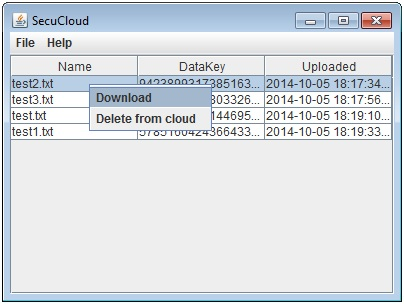
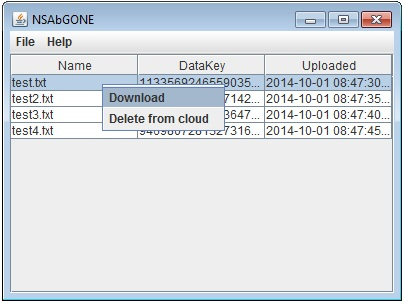
Added some pictures. Edited some content.

Changed region(s): [[0.0, 0.0, 1.0, 0.4752], [0.0297, 0.9802, 0.9802, 1.0]]

diff --git a/doc/LaTeX/IS_Projekt.tex b/doc/LaTeX/IS_Projekt.tex
@@ -185,7 +185,7 @@ Zu den Grundfunktionalitäten des geforderten Prototyps gehören der Cloud-Zugri
 Die Verwendung soll durch eine grafische Oberfläche vereinfacht werden.
 
 \subsubsection{Problemabgrenzung}
-Eine Gegenüberstellung weiterer kommerzieller Produkte von Cloud-Anbietern im Bezug auf Implementierung und Performance wird in dieser Arbeit nicht behandelt. Ebenso ist eine Optimierung vorhandener APIs bzw. Schnittstellen und Kryptosystemen nicht Gegenstand dieser Arbeit. Die Hardware des Anwenders wird als sicher betrachtet, weswegen es keines sicheren Schlüsselmanagements bedarf.
+Eine Gegenüberstellung weiterer kommerzieller Produkte von Cloud-Anbietern im Bezug auf Implementierung und Performance wird in dieser Arbeit nicht behandelt. Ebenso ist eine Optimierung vorhandener APIs bzw. Schnittstellen und Kryptosystemen nicht Gegenstand dieser Arbeit. Die Hardware des Anwenders wird als sicher betrachtet, weswegen es keines sicheren Schlüsselmanagements bedarf. Dateien, welche manuell bzw. ohne die Anwendung in die Cloud geladen werden, werden nicht berücksichtigt.
 
 \subsection{Ziel der Arbeit}
 Ziel der Arbeit ist es herauszuarbeiten, ob und wie Cloudspeicher zur sicheren Ablage von Daten im Sinne des deutschen Datenschutzverständnisses genutzt werden können. Hierfür soll einee entsprechende Applikation entwickeln werden. Außerdem ist zu klären, ob der Einsatz einer Cloudplattform sinnvoll und möglich ist, auf Hintergrund der jüngsten Enthüllungen Edward Snowdens und anderer. Diese haben gezeigt, dass eine solche Infrastruktur auf US-Amerikanischem Boden im besonderen aber auch im Ausland im Allgemeinen als nicht vertrauenswürdig gelten muss und dort abgelegte Unternehmenswichtige Daten gefährdet sind. Ist es möglich die Vorteile solcher Plattformen dennoch zu nutzen? Wie gefährdet sind die Daten dann noch?
@@ -205,7 +205,7 @@ Die Dokumentation des Programmcodes sowie die UML Diagramme sind auf Englisch ge
 % ----------------------------------------------------------------------------------------------------------
 \section{Grundlagen}\label{GrundlagenV}
 \subsection{Cloud Computing}
-TODO: Einleitung
+Da der Begriff Cloud Computing nicht eindeutig definiert und in seinem strukturellen Aufbau zu unterscheiden ist, wird nachfolgend Cloud Computing beschrieben und in diesem Zusammenhang näher auf die Merkmale von Infrastructure as a Service (IaaS) eingegangen.
 \subsubsection{Definition}
 Definition von Cloud Computing nach dem National Institute of Standards and Technology (NIST) und der European Network and Information Security Agency (ENISA) \cite{34}:
 
@@ -222,8 +222,17 @@ Cloud Computing bietet Unternehmen die Möglichkeit hohe Investitionskosten für
 
 Gängige Ansätze fordern eine kostenintensive und zeitlich aufwändige Analyse bestehender Systeme und möglicher Erweiterungen. Schwankungen des Bedarfs erschweren eine exakte Kalkulation notwendiger Betriebsmittel, sodass eine Fehl- oder wohlwollend angesetzte Kalkulation zu ungenutzten Kapazitäten und einer unnötigen Belastung der Umwelt führt. Durch Cloud Computing können innerhalb kürzester Zeit Ressourcen bereitsgestellt oder entzogen werden.
 
-ABBILDUNG X\\
-Abbildung X stellt schemenhaft den Speicherbedarf eines Unternehmens dar. Eine Über-\\kapazität tritt dann ein, wenn der zum Zeitpunkt x verwendete Speicher unter dem tatsächlich verfügbaren Speicher liegt - eine Unterkapazität, wenn mehr Speicher benötigt wird, als vorhanden ist. Eine Kalkulation benötigter Ressourcen ist zu Beginn schwierig und eine Überkapazität sogar, um einen ständigen Integrationsaufwand zu vermeiden, gewünscht. Der Anstieg an Daten führt unweigerlich zur Erreichung der Kapazitätsgrenzen. Im Extremfall wird die Migration besserer Systeme notwendig, was teilweise Geschäftsprozesse beeinflussen kann. In jedem Fall führt jedoch eine Beschaffung und Integration neuer Hardware zu finanziellem und administrativem Aufwand. Sinkt der Speicherbedarf wieder, bspw. durch Löschen redundanter Daten, wäre eine solche irreversible Invesition, kurzfristig betrachtet, als unnötig anzusehen. Bei Cloud Computing wird diese Herausforderung auf den Anbieter übertragen - der benötigte Speicher kann bedarfsgerecht gesteuert und abgerechnet werden.
+\vspace{1em}
+$\;$\\
+\begin{minipage}{\linewidth}
+	\centering
+	\includegraphics[width=1.0\linewidth]{Speicher.jpg}
+	 \captionof{figure}{\small Speicherbedarf}
+ 	\label{SpeicherV}
+\end{minipage}
+\vspace{1em}
+
+Abbildung \ref{SpeicherV} stellt schemenhaft den Speicherbedarf eines Unternehmens dar. Eine Über-\\kapazität tritt dann ein, wenn der zum Zeitpunkt x verwendete Speicher unter dem tatsächlich verfügbaren Speicher liegt - eine Unterkapazität, wenn mehr Speicher benötigt wird, als vorhanden ist. Eine Kalkulation benötigter Ressourcen ist zu Beginn schwierig und eine Überkapazität sogar, um einen ständigen Integrationsaufwand zu vermeiden, gewünscht. Der Anstieg an Daten führt unweigerlich zur Erreichung der Kapazitätsgrenzen. Im Extremfall wird die Migration besserer Systeme notwendig, was teilweise Geschäftsprozesse beeinflussen kann. In jedem Fall führt jedoch eine Beschaffung und Integration neuer Hardware zu finanziellem und administrativem Aufwand. Sinkt der Speicherbedarf wieder, bspw. durch Löschen redundanter Daten, wäre eine solche irreversible Invesition, kurzfristig betrachtet, als unnötig anzusehen. Bei Cloud Computing wird diese Herausforderung auf den Anbieter übertragen - der benötigte Speicher kann bedarfsgerecht gesteuert und abgerechnet werden.
 
 \textbf{Materielle Wertverluste}
 
@@ -409,8 +418,8 @@ Google Cloud Storage ermöglicht es Daten auf der Google-Infrastruktur mit hoher
  Jeder Bucket ist genau einem Project zugeordnet. Ein Project besteht aus einer Gruppe von Benutzern, mehreren APIs, Authentifizierung, Überwachungsoptionen und wird mit einem sog. ''Billing Account'' einzeln abgerechnet. Ein Project kann eine beliebige Anzahl an Buckets enthalten.
 \end{compactitem}
 
-\subsection{Schnittstelle Google Cloud Storage: gsutil}\label{GsutilV}
-\textbf{gsutil} \cite{32} ist eine Python-Anwendung, welche einen konsolenbasierten Zugriff der gängigen Betriebssysteme Linux/Unix, Mac OS oder Windows auf Google Cloud Storage ermöglicht. Voraussetzung ist ein installiertes Python in der Version 2.6.x oder 2.7.x,  Python 3.x ist dazu derzeit inkompatibel. Dabei nutzt gsutil die Notation der Standardbefehle von Linux, welche direkt in einer Konsole oder durch eine Anwendung aufgerufen werden können. Damit gsutil als Schnittstelle zum eigenen Google Cloud Storage verwendet werden kann, muss dieses initial durch einen Authentifizierungscode mit dem zugehörigen Account verknüpft werden. TODO :BOTO Nachfolgend sind die für das Projekt relevanten Befehle aufgelistet (ein Ausführen von gsutil mit einem Python-Interpreter und eine korrekte Authentifizierung ist vorausgesetzt):
+\subsection{Schnittstelle Google Cloud Storage: gsutil unt boto}\label{GsutilV}
+\textbf{gsutil} \cite{32} ist eine Python-Anwendung, welche einen konsolenbasierten Zugriff der gängigen Betriebssysteme Linux/Unix, Mac OS oder Windows auf Google Cloud Storage ermöglicht. Voraussetzung ist ein installiertes Python in der Version 2.6.x oder 2.7.x,  Python 3.x ist dazu derzeit inkompatibel. Dabei nutzt gsutil die Notation der Standardbefehle von Linux, welche direkt in einer Konsole oder durch eine Anwendung aufgerufen werden können. Damit gsutil als Schnittstelle zum eigenen Google Cloud Storage verwendet werden kann, muss dieses initial durch einen Authentifizierungscode mit dem zugehörigen Account verknüpft werden. Nachfolgend sind die für das Projekt relevanten Befehle aufgelistet (ein Ausführen von gsutil mit einem Python-Interpreter und eine korrekte Authentifizierung ist vorausgesetzt):
 
 \begin{compactitem}
 	\item Auflisten: \textbf{ls}\\
@@ -424,7 +433,21 @@ Google Cloud Storage ermöglicht es Daten auf der Google-Infrastruktur mit hoher
 
 Desweiteren verarbeitet gsutil Befehle für das Erstellen und Löschen von Buckets, Verschieben, Umbenennen und Editieren von Objekten sowie zur Rechteverwaltung.
 
-Neben der Schnittstelle gsutil verfügt Google Cloud Storage über eine \textbf{XML API} für HTTP-Anfragen von Web-Services, eine \textbf{JSON API} in Version v1 und weitere \textbf{Cloud Storage Tools}.TODO warum gsutil, WEBSOCKET ETC\\
+\textbf{boto} ist eine OpenSource Python-Bibliothek, welche als Schnittstelle zu Google Cloud Storage dient. Das zugehörige GCS-0auth2-boto-Plugin ist ein Plugin zur Authentifizierung mit OAuth 2.0 Anmeldeinformationen. Neben Google verwendet auch Amazon Web Services dieses als Schnittstelle.
+
+\vspace{1em}
+$\;$\\
+\begin{minipage}{\linewidth}
+	\centering
+	\includegraphics[width=0.7\linewidth]{OAuth.png}
+	\captionof{figure}{\small OAuth 2.0}
+	\label{OAuthV}
+\end{minipage}
+\vspace{1em}
+
+In Abbildung \ref{OAuthV} wird das Authentifizierungsverfahren OAuth 2.0 an den Google-Servern dargestellt. Ein Anwender meldet sich im System an, erhält daraufhin einen Authentifizierungscode, bestätigt diesen und kann anschließend mit jeglicher, auf die Google APIs zugreifender, Anwendung Google Cloud Storage verwenden. Die Informationen werden in einer *.boto Datei gespeichert und bleiben somit automatisierend für weitere Zugriffe erhalten.
+
+Neben gsutil verfügt Google Cloud Storage über eine \textbf{XML API} für HTTP-Anfragen von Web-Services, eine \textbf{JSON API} in Version v1 und weitere \textbf{Cloud Storage Tools}. TODO warum gsutil, WEBSOCKET ETC\\
 
 \subsection{Eclipse IDE for Java Developers}
 Eclipse ist eine OpenSource Entwicklungsumgebung zur gestützten Entwicklung von Software. Die IDE for Java Developers beinhaltet zusätzlich Pakete und Tools, die eine Programmierung in der Programmierhochsprache Java erleichtert. Interessant hierbei ist, das Eclipse selbst für Java und auch in Java Entwickelt wurde. Es ist also genau so vielseitig nutzbar wie die Anwendungen die damit entwickelt werden. Durch Plugins kann die Funktionalität von Enclipse erweitert werden, etwa um UML Diagramme aus Code oder umgekehrt aus UML Diagrammen Code zu erzeugen, oder um die Entwicklung in anderen Sprachen zu ermöglichen. Im Zuge dieses Projekts wurde Eclipse in der Version \textbf{Kepler Service Release 2}, \textbf{Build id: 20140224-0627}, verwendet.
@@ -505,14 +528,29 @@ Die UML Diagramme befinden sich im digitalen Anhang, Ordner UML. In der Datei Cl
 \pagebreak
 
 \subsubsection{Anwendungsfälle}
-\vspace{1em}
+\vspace{0,5em}
 $\;$\\
 \begin{minipage}{\linewidth}
 	\centering
 	\includegraphics[width=0.8\linewidth]{UseCase.jpg}
 	 \captionof{figure}{\small Anwendungsfalldiagramm}
 \end{minipage}
-\vspace{1em}
+\vspace{0,em}
+
+\textbf{Begriffslexikon Anwendungsfälle:}
+\begin{compactitem}
+\item Anwender:\\
+Die Rechte und Möglichkeiten des Anwenders, sofern diese vorher beim Anbieter vergeben wurden, begrenzen sich auf das Ablegen lokaler und das Herunterladen bzw. Löschen von in der Cloud gespeicherten Dateien.
+\item Authentifizierung:\\
+Der Login erfordert den Benutzernamen sowie das zugehörige Passwort.
+\item Datei:\\
+Die hochzuladende Datei kann in jedem beliebigen Dateiformat vorliegen.
+\item Dateiübersicht:\\
+Die Dateiübersicht gibt tabellarisch die in der Cloud abgelegten Dateien wieder. Dies beinhaltet den originalen Dateinamen, den kryptischen Dateinamen  sowie den Zeitpunkt des Ablegens.
+\item GUI:\\
+GUI (engl. Graphical User Interface) ist eine grafische Benutzeroberfläche, die dem Anwender die Interaktion mit dem System vereinfacht.
+\end{compactitem}
+\pagebreak
 
 \textbf{AF-001 Nutzer erstellen:}
 \begin{table}[!h]
@@ -541,6 +579,7 @@ $\;$\\
 	\caption{AF-001 Nutzer erstellen}
 	\label{tab:AF-001 Nutzer erstellen}
 \end{table}
+\pagebreak
 
 \textbf{AF-002 Authentifizierung:}
 \begin{table}[!h]
@@ -590,9 +629,9 @@ $\;$\\
 		\hline
 		Nachbedingung im Sonderfall & Datei kann nicht abgelegt werden\\
 		\hline
-		Normalablauf & 1. Anwender wählt das Menü ''File'' aus \\ & 2. Anwender wählt im Untermenü ''Select'' \\ & 3. Anwender bewegt sich durch das eigene  Datei- \\ & system zum Speicherpfad der hochzuladenden Datei \\ & 4. Anwender initialisiert den Dateiupload durch \\ &  Auswählen der Datei und Bestätigung mit ''Öffnen'' \\  & 5. Datei wird verschlüsselt \\ & 6. Datei wird hochgeladen \\
+		Normalablauf & 1. Anwender wählt das Menü ''File'' aus \\ & 2. Anwender wählt im Untermenü ''Select'' \\ & 3. Anwender bewegt sich durch das eigene  Datei- \\ & system zum Speicherpfad der hochzuladenden Datei \\ & 4. Anwender initialisiert den Dateiupload durch \\ &  Auswählen der Datei und Bestätigung mit ''Open'' \\  & 5. Datei wird verschlüsselt \\ & 6. Datei wird hochgeladen \\
 		\hline
-		Sonderfälle & 3a. Dateisystem wird nicht unterstützt \\& 5a. Datei wird nicht verschlüsselt \\ & 6a. Datei kann nicht hochgeladen werden\\
+		Sonderfälle & 3a. Dateisystem wird nicht unterstützt \\& 4a. Keine Datei ausgewählt \\ & 4b. Anwender wählt "Cancel" \\ &  5a. Datei wird nicht verschlüsselt \\ & 6a. Datei kann nicht hochgeladen werden\\
 		\hline
 	\end{tabular}
 	\caption{AF-003 Dateiupload}
@@ -627,6 +666,7 @@ $\;$\\
 	\caption{AF-004 Dateidownload}
 	\label{tab:AF-004 Dateidownload}
 \end{table}
+\pagebreak
 
 \textbf{AF-005 Datei l\"oschen:}
 \begin{table}[!h]
@@ -647,9 +687,9 @@ $\;$\\
 		\hline
 		Nachbedingung im Sonderfall & Datei kann nicht gelöscht werden \\
 		\hline
-		Normalablauf & 1. Anwender wählt in der Dateiübersicht mit linkem \\&Mausklick den Eintrag der entsprechenden Datei aus \\ & 2. Anwender öffnet das Kontextmenü mit rechtem\\& Mausklick \\ & 3. Anwender wählt im Kontextmenü ''Delete from \\&cloud'' \\  & 4. Datei wird aus der Cloud gelöscht \\ & 5. Dateieintrag in der Übersicht wird entfernt \\& Schlüssel wird entfernt \\
+		Normalablauf & 1. Anwender wählt in der Dateiübersicht mit linkem \\&Mausklick den Eintrag der entsprechenden Datei aus \\ & 2. Anwender öffnet das Kontextmenü mit rechtem\\& Mausklick \\ & 3. Anwender wählt im Kontextmenü ''Delete from \\&cloud'' \\ & 4. Delete Fenster erscheint \\ & 5. Anwender bestätigt mit Ok \\  & 6. Datei wird aus der Cloud gelöscht \\ & 7. Dateieintrag in der Übersicht wird entfernt \\& Schlüssel wird entfernt \\
 		\hline
-		Sonderfälle & 1a. Kein Eintrag vorhanden\\& 1b. Kein Eintrag ausgewählt\\ & 3a. Kontextmenü öffnet sich nicht \\& 4a. Datei kann nicht aus der Cloud gelöscht werden \\ & 5a. Dateieintrag in der Übersicht wird nicht entfernt\\& Schlüssel wird nicht entfernt\\
+		Sonderfälle & 1a. Kein Eintrag vorhanden\\& 1b. Kein Eintrag ausgewählt\\ & 3a. Kontextmenü öffnet sich nicht \\ & 4a. Delete Fenster erscheint nicht \\ & 5a. Anwender wählt No \\ & 6a. Datei kann nicht aus der Cloud gelöscht werden \\ & 7a. Dateieintrag in der Übersicht wird nicht entfernt\\& Schlüssel wird nicht entfernt\\
 		\hline
 	\end{tabular}
 	\caption{AF-005 Datei löschen}
@@ -657,30 +697,16 @@ $\;$\\
 \end{table}
 \pagebreak
 
-\textbf{Begriffslexikon Anwendungsfälle:}
-\begin{compactitem}
-\item Anwender:\\
-Die Rechte und Möglichkeiten des Anwenders, sofern diese vorher beim Anbieter vergeben wurden, begrenzen sich auf das Ablegen lokaler und das Herunterladen bzw. Löschen von in der Cloud gespeicherten Dateien.
-\item Authentifizierung:\\
-Der Login erfordert den Benutzernamen sowie das zugehörige Passwort.
-\item Datei:\\
-Die hochzuladende Datei kann in jedem beliebigen Dateiformat vorliegen.
-\item Dateiübersicht:\\
-Die Dateiübersicht gibt tabellarisch die in der Cloud abgelegten Dateien wieder. Dies beinhaltet den kryptischen Dateinamen, den originalen Dateinamen sowie den Zeitstempel des Ablegens.
-\item GUI:\\
-GUI (engl. Graphical User Interface) ist eine grafische Benutzeroberfläche, die dem Anwender die Interaktion mit dem System vereinfacht.
-\end{compactitem}
-
 \subsection{Kryptosystem}
 Die Verschlüsselung und das Accountmanagement basieren zurzeit ausschließlich auf den Algorithmen AES128 im CTR Modus und SHA256. Eine asymmetrische Verschlüsselung wurde in Betracht gezogen, schied jeodch unter der Annahme, dass der Client auf dem die Applikation läuft, als sichere Umgebung gilt, aus. In einer späteren Weiterentwicklung ist es aber durchaus sinnvoll dies erneut zu evaluieren. Vor allem dann, wenn ein Server das Dateisystem bzw. dessen Synchronität verwalten soll, oder mehrere kaskadierte Verschlüsselungsebenen geschaffen werden sollen, um eine erweiterte Rechteverwaltung zu ermöglichen. Die Beschreibung der Sicherungsverfahren wird nachfolgend in der Reihenfolge, in der sie von einem Benutzer ausgelöst werden, beschrieben.
 \\\\\textbf{Account anlegen}\\
-Wird die Applikation zum ersten Mal gestartet, stellt sie also fest, dass bisher keine Benutzer im System registriert sind, schafft sie im Home-Verzeichnis des Benutzers eine eigene Ordnerstruktur, um die anfallenden Informationen zu verwalten und nach dem schließen vorzuhalten. Nachdem der Benutzer im CreateAccountWindow seine gewünschten Nutzerdaten eingetragen hat, wird automatisch ein zufälliger Wert von 64 Byte berechnet, der sog. ''Salt". Danach wird der Benutzername im Klartext in die Datei HOME/SecuCloud/settings.cfg eingetragen, gefolgt von einem Doppelpunkt (":") als Separator. Anschließend berechnet das Programm einen SHA256 Hashwert über ein Byte array bestehend aus dem Salt und dem Passwort. Dieser Hash sowie der Salt werden hinter dem Doppelpunkt abgelegt. Weitere eventuell angelegte Benutzer werden auf die selbe Weise an die Datei angehängt, die Applikation erkennt anhand des Separators und der Kenntnis über Länge von Hash und Salt, wo die Daten des einen Nutzers enden und die des nächsten beginnen. TODO
+Wird die Applikation zum ersten Mal gestartet, stellt sie also fest, dass bisher keine Benutzer im System registriert sind, schafft sie im Home-Verzeichnis des Benutzers eine eigene Ordnerstruktur, um die anfallenden Informationen zu verwalten und nach dem schließen vorzuhalten. Nachdem der Benutzer im CreateAccountWindow seine gewünschten Nutzerdaten eingetragen hat, wird automatisch ein zufälliger Wert von 64 Byte berechnet, der sog. ''Salt". Danach wird der Benutzername im Klartext in die Datei HOME/NSAbGONE/settings.cfg eingetragen, gefolgt von einem Doppelpunkt (":") als Separator. Anschließend berechnet das Programm einen SHA256 Hashwert über ein Byte array bestehend aus dem Salt und dem Passwort. Dieser Hash sowie der Salt werden hinter dem Doppelpunkt abgelegt. Weitere eventuell angelegte Benutzer werden auf die selbe Weise an die Datei angehängt, die Applikation erkennt anhand des Separators und der Kenntnis über Länge von Hash und Salt, wo die Daten des einen Nutzers enden und die des nächsten beginnen. TODO
 \\\\\textbf{Login}\\
 Um sich in seinen Account einzuloggen, muss ein Benutzer seinen Nutzernamen und sein Passwort in die im LoginWindow vorgegebenen Zellen eintragen. Drückt er auf den OK Button, erstellt die Applikation ein Byte Array aus dem Passwort und dem in settings.cfg hinterlegten Salt. Dies wird gehasht und das Ergebnis mit dem in settings.cfg eingetragenen verglichen. Stimmen die beiden überein, sind die Nutzerdaten valide und die Applikation wechselt in das MainWindow. Der Vorteil bei der Verwendung eines Salt ist in \fullref{KryptV} näher erläutert.
 \\\\\textbf{Dateien ablegen}\\
 Wählt der Benutzer eine Datei über das MainWindow aus, um diese in der Cloud sicher zu speichern, beginnt die Applikation zunächst damit einen zufälligen Schlüssel von 16 Byte Länge (AES Key, 128 Bit) und einen Initialisierungsvektor (Nonce) für den CTR Modus (ebenfalls 16 Byte) zu berechnen und in einer Instanz der Klasse InformationContainer zusammen mit dem Dateinamen und weiteren Informationen, zu speichern. Danach wird die Datei selbst mit den generierten Werten verschlüsselt, der verwendete Initialisierungsvektor angehängt und sie anschließend in der Cloud abgelegt. Für jede Datei wird ein eigener Schlüssel berechnet, da ein Schlüssel immer gefährdeter wird, je öfter er benutzt, bzw. je mehr Daten damit verschlüsselt werden. Außerdem ist es möglich einem anderen Nutzer den Zugriff auf eine einzelene Datei zu gestatten, indem man ihm den Schlüssel aushändigt. 
 \\\\\textbf{Programm schließen}\\
-Wird die CLOSE Schaltfläche des MainWindow betätigt oder das X in der Ecke des Programmfensters, werden alle laufenden Verschlüsselungs- und Uploadprozesse abgearbeitet. Anschließend werden die gespeicherten InformationContainer in Bytefolgen umgewandelt und aneinander gehängt. Dieses Byte Array wird dann mittels des Benutzerpasswortes und einem weiteren zufällig generierten Initialisierungsvektor AES CTR verschlüsselt. Danach wird der Initialisierungsvektor angehängt und die Daten in die Datei HOME/SecuCloud/\textless Benutzername\textgreater/data/state.cfg gespeichert. Sollte das Benutzerpasswort nicht die richtige Länge haben (genau 16 Byte, AES Schlüssellänge) wird es bei 16 Byte abgeschnitten, bzw. auf 16 Byte expandiert. Das bedeutet, es wird so oft hintereinander gehängt, bis 16 Byte erreicht oder überschritten werden. Eventuell überflüssige Zeichen werden anschließend abgeschnitten. Aus diesem Grund lohnt es sich ein ausreichend langes Passwort zu wählen.
+Wird die CLOSE Schaltfläche des MainWindow betätigt oder das X in der Ecke des Programmfensters, werden alle laufenden Verschlüsselungs- und Uploadprozesse abgearbeitet. Anschließend werden die gespeicherten InformationContainer in Bytefolgen umgewandelt und aneinander gehängt. Dieses Byte Array wird dann mittels des Benutzerpasswortes und einem weiteren zufällig generierten Initialisierungsvektor AES CTR verschlüsselt. Danach wird der Initialisierungsvektor angehängt und die Daten in die Datei HOME/NSAbGONE/\textless Benutzername\textgreater/data/state.cfg gespeichert. Sollte das Benutzerpasswort nicht die richtige Länge haben (genau 16 Byte, AES Schlüssellänge) wird es bei 16 Byte abgeschnitten, bzw. auf 16 Byte expandiert. Das bedeutet, es wird so oft hintereinander gehängt, bis 16 Byte erreicht oder überschritten werden. Eventuell überflüssige Zeichen werden anschließend abgeschnitten. Aus diesem Grund lohnt es sich ein ausreichend langes Passwort zu wählen.
 \\\\\textbf{Programmstart mit vorhandener state.cfg}\\
 Wird die Applikation gestartet und ein Benutzer meldet sich mit validen Daten an, wird geprüft, ob bereits eine state.cfg für diesen Benutzer existiert, also ob bereits Dateien abgelegt und ensprechen Informationen zu diesen gespeichert wurden. Ist dies der Fall, expandiert die Applikation das Benutzerpasswort und entschlüsselt die state.cfg. Hier wird auch klar warum die state.cfg verschlüsselt sein muss: Es ist möglich, dass jemand die setttings.cfg derart manipuliert, dass jemand sich mit einem falschen Passwort einloggen kann. Dann ist es dieser Person aber nach wie vor nicht möglich die Dateien des eigentlichen Benutzers zu entschlüsseln, da er das echte Passwort nicht besitzt. Auch ist es zukünftig denkbar die state.cfg selbst in der Cloud abzulegen. Dann wäre es möglich von überall aus das Programm zu verwenden (etwa mitgeführt auf einem USB Stick), ohne die Informationen im Nutzerverzeichnis zu benötigen.
 \\\\\textbf{BSI Standards}\\
@@ -745,7 +771,7 @@ $\;$\\
 	\captionof{figure}{\small Dateiauswahl}
 	\label{Select}
 \end{minipage}
-\\\\In der Dateiauswahl Select wird die lokale Ordnerstruktur des Betriebssystems angezeigt. In dieser kann sich der Benutzer frei bewegen und in das Quellverzeichnis von Dateien wechseln. Das Auswählen einer Datei und die Bestätigung mit Öffnen initialisiert den, für den Anwender nicht ersichtlichen, Verschlüsselungsvorgang und Dateiupload. Das Auswahlfenster wird beendet. Wurde die Datei korrekt verschlüsselt und in die Cloud geladen, wird diese im Hauptfenster mit ihren Merkmalen aufgelistet. Bei großen Dateien kann dieser Vorgang eine längere Zeitdauer in Anspruch nehmen. Schließt der Benutzer die gesamte Anwendung vor Auflistung in der Dateiübersicht, so wird diese weiterhin durch Hintergrundprozesse verschlüsselt bzw. hochgeladen. Durch Abbrechen kann das Auswahlfenster für Dateien geschlossen werden.
+\\\\In der Dateiauswahl Select wird die lokale Ordnerstruktur des Betriebssystems angezeigt. In dieser kann sich der Benutzer frei bewegen und in das Quellverzeichnis von Dateien wechseln. Das Auswählen einer Datei und die Bestätigung mit Open initialisiert den, für den Anwender nicht ersichtlichen, Verschlüsselungsvorgang und Dateiupload. Das Auswahlfenster wird beendet. Wurde die Datei korrekt verschlüsselt und in die Cloud geladen, wird diese im Hauptfenster mit ihren Merkmalen aufgelistet. Bei großen Dateien kann dieser Vorgang eine längere Zeitdauer in Anspruch nehmen. Schließt der Benutzer die gesamte Anwendung vor Auflistung in der Dateiübersicht, so wird diese weiterhin durch Hintergrundprozesse verschlüsselt bzw. hochgeladen. Durch Cancel kann das Auswahlfenster für Dateien geschlossen werden.
 
 \textbf{Help Menü}
 \vspace{1em}
@@ -789,7 +815,18 @@ $\;$\\
 	\captionof{figure}{\small Kontextmenü}
 	\label{Kontext}
 \end{minipage}
-\\\\Das Kontextmenü wird durch Auswahl einer Zeile und Betätigen der rechten Maustaste ausgeführt. Es beinhaltet die Möglichkeiten Download und Delete from Cloud. Download initialisiert das temporäre Herunterladen der ausgewählten Datei mit anschließender Entschlüsselung und entschlüsselter Ablage in HOME/SecuCloud/\textless Benutzername\textgreater/download. Mit Delete from Cloud kann eine Datei aus der Cloud zusammen mit dem zugehörigem lokal gespeicherten Schlüssel gelöscht werden. Der Eintrag wird anschließend aus der Dateiübersicht entfernt. Das Kontextmenü kann durch einen Klick auf eine freie Fläche innerhalb der Anwendung oder einen beliebigen Klick in die Oberfläche des Betriebssystems geschlossen werden.
+\\\\Das Kontextmenü wird durch Auswahl einer Zeile und Betätigen der rechten Maustaste ausgeführt. Es beinhaltet die Möglichkeiten Download und Delete from Cloud. Download initialisiert das temporäre Herunterladen der ausgewählten Datei mit anschließender Entschlüsselung und entschlüsselter Ablage in HOME/NSAbGONE/\textless Benutzername\textgreater/download. Mit Delete from Cloud kann eine Datei aus der Cloud zusammen mit dem zugehörigem lokal gespeicherten Schlüssel gelöscht werden. Der Eintrag wird anschließend aus der Dateiübersicht entfernt. Das Kontextmenü kann durch einen Klick auf eine freie Fläche innerhalb der Anwendung oder einen beliebigen Klick in die Oberfläche des Betriebssystems geschlossen werden.
+
+\textbf{Delete Fenster}
+\vspace{1em}
+$\;$\\
+\begin{minipage}{\linewidth}
+	\centering
+	\includegraphics[width=0.4\linewidth]{Delete.jpg}
+	\captionof{figure}{\small Delete Fenster}
+	\label{Delete}
+\end{minipage}
+\\\\Ein durch Delete from Cloud im Kontextmenü initialisierter Löschvorgang muss in einer zusätzlichen Abfrage bestätigt werden. Angezeigt wird der originale und der krytpische Dateiname. Durch bestätigen mit YES wird die ausgewählte Datei gelöscht, bei Auswahl von No der Löschvorgang abgebrochen.
 
 \textbf{Synchronisierungsstatus}
 \vspace{1em}
@@ -819,8 +856,8 @@ Im folgenden werden Möglichkeiten beschrieben, die bestehende Applikation zu ve
 Eine sehr simple, aber dennoch äußerst nützliche Erweiterung des bestehenden Tools wäre es zu ermöglichen, dass ein Anwender mehrere Zeilen der Tabelle markieren und bearbeiten kann. Dies würde die intuitive Nutzbarkeit erhöhen und den Umgang mit großen Dateimengen erleichtern. 
 \\\textbf{Drag\&Drop}\\
 Um die Benutzerfreundlichkeit des Programmes zu erhöhen wäre es vorteilhaft, Dateien per Drag\&Drop in das Programmfenster hinen zu ziehen. Dadurch müsste ein Benutzer nicht jedes mal, wenn er eine Datei hinzufügen möchte, durch die Verzeichnisstruktur seines Betriebssystems navigieren.
-\\\textbf{Autokonfiguration der Schnittstellen}\\
-Zurzeit muss gsutil noch manuell vorkonfiguriert werden, um es anschließend mit der Software als Schnittstelle zu Google Cloud Storage zu verwenden. Diese Konfiguartion könnte automatisiert durch die Software selbst geschehen.
+\\\textbf{Schnittstellen}\\
+Zurzeit muss gsutil noch manuell vorkonfiguriert werden, um es anschließend mit der Software als Schnittstelle zu Google Cloud Storage zu verwenden. Diese Konfiguartion könnte automatisiert durch die Software selbst geschehen. Desweiteren haben Testfälle unter Einsatz von gsutil haben gezeigt, dass dieses nicht performant genug für die Verarbeitung von großen Dateien ist. Bereits bei einer Dateigröße von 50MB kam es zu langen Verzögerungen im Datei-Upload, in manchen Fällen sogar zu Abbrüchen. Dieses Verhalten war zu Beginn der Projektarbeit nicht ersichtlich und ist, auf Grund fehlender Reproduzierbarkeit, nicht zu erklären. Eine Weiterentwicklung dieser oder die Wahl einer alternativen Schnittstelle ist für eine zukünftige Implementierung sinnvoll. TODO
 \\\textbf{Installations Setup}\\
 Die gesamte Installation des Programmes kann durch einen Wizard derart automatisiert werden, dass auch Zusatzsoftware wie Python installiert und die Pfade in Konfigurationsdateien hinterlegt werden. Auch wäre es möglich Python für Windowssysteme automatisch bereit zu stellen und in der .jar Datei zu verpacken. Linux und MAC Systeme besitzen ohnehin standardmäßig eine Python2x Installation und verwenden Standardpfade für installierte Anwendungen (/bin, /usr/bin etc.).
 \\\textbf{Selbstsynchronisierung}\\
@@ -830,7 +867,7 @@ Weiterhin denkbar wäre, die Applikation derart anzulegen, dass sie den Cloudspe
 \\\textbf{Verschlüsselung von Dateistrukturen}\\
 Im Rahmen der zur Verfügung stehenden Zeit für die Bearbeitung der Projektarbeit, wurde eine Verschlüsselung auf dem Datei-Level gewählt. Dies bedeutet, dass gezielt einzelne Dateien zur Verschlüsselung ausgewählt werden können. Ein Kryptosystem wäre jedoch auch für den Einsatz auf weiteren Leveln möglich. Hierzu gehört die Verschlüsselung auf dem Datenträger-Level, d.h. das gesamte Betriebssystem inklusive der beinhaltenden Anwendungen und Daten werden auf einem verschlüsselten Datenträger abgelegt. Dies führt jedoch zu starken Einbußen der Performance und Zuverlässigkeit. Ein weiteres Level bildet das Dateisystem. In diesem werden komplette Verzeichnisse als Container ver- und entschlüsselt. Dieser Anwendungsfall bietet zudem die Möglichkeiten Daten nach ihrer Sensibilität einzustufen und jeweils in ihrer Gesamtheit mit einem eigenen Schlüssel zu versehen. Das letzte Level stellt das Anwendungs-Level dar. Darin verwaltet eine Anwendung die Ver- und Entschlüsselung von Daten. \cite{38}
 \\\textbf{Schutz der .boto}\\
-Wie in \fullref{GsutilV} dargelegt ist, stehen die Verbindungsdaten, welche die Gsutil Schnittstelle nutzt, in der Datei .boto im Home Verzeichnis des Benutzers. Da dies eine Möglichkeit darstellt ohne Passworteingabe auf den Cloudspeicher von Google zuzugreifen, sollte auch diese bei beendigung des Programmes verschlüsselt werden. Dies wird zusätzlich interessant, wenn eine Benutzerverwaltung mit eigenen Nutzeraccounts und zugehörigen Buckets existiert. Jeder in der Anwendung registrierte Nutzer hat dann seine eigene .boto, die nach beendigung der Applikation in seinem Applikationsspeicher (/SecuCloud/\textless Benutzername\textgreater /data/) verschlüsselt abgelegt wird, und nur mittels eines korrekten Benutzerpasswortes zugänglich ist. Simultan zur Behandlung der state.cfg Dateien.
+Wie in \fullref{GsutilV} dargelegt ist, stehen die Verbindungsdaten, welche die Gsutil Schnittstelle nutzt, in der Datei .boto im Home Verzeichnis des Benutzers. Da dies eine Möglichkeit darstellt ohne Passworteingabe auf den Cloudspeicher von Google zuzugreifen, sollte auch diese bei beendigung des Programmes verschlüsselt werden. Dies wird zusätzlich interessant, wenn eine Benutzerverwaltung mit eigenen Nutzeraccounts und zugehörigen Buckets existiert. Jeder in der Anwendung registrierte Nutzer hat dann seine eigene .boto, die nach beendigung der Applikation in seinem Applikationsspeicher (/NSAbGONE/\textless Benutzername\textgreater /data/) verschlüsselt abgelegt wird, und nur mittels eines korrekten Benutzerpasswortes zugänglich ist. Simultan zur Behandlung der state.cfg Dateien.
 
 \subsubsection{Serverseitiges Management}
 Die folgenden Abschnitte sind kaum mit Quellen versehen, da sie aus eigenen Gedanken entstanden sind. Sollte es ähnliche Verfahrensweisen in anderen Systemen geben, so ist dies Zufall und bedeutet nicht, dass Quellen vorsätzlich unterschlagen wurden.\\

diff --git a/src/nsabgone/src/view/MainWindow.java b/src/nsabgone/src/view/MainWindow.java
@@ -19,6 +19,7 @@ import java.security.InvalidKeyException;
 import java.security.NoSuchAlgorithmException;
 import java.security.NoSuchProviderException;
 import java.util.ListIterator;
+import java.util.Locale;
 import java.util.Vector;
 
 import control.FileListHandler;
@@ -106,7 +107,7 @@ public class MainWindow extends javax.swing.JFrame {
 
 	/**
 	 * Initializes the table.
-	 *
+	 * 
 	 * @return the object[][]
 	 */
 	private Object[][] initTable() {
@@ -182,6 +183,8 @@ public class MainWindow extends javax.swing.JFrame {
 
 		entryFileSelect.addActionListener(new ActionListener() {
 			public void actionPerformed(ActionEvent ac) {
+				Locale.setDefault(Locale.US);
+				JComponent.setDefaultLocale(Locale.US);
 				JFileChooser fc = new JFileChooser();
 				int status = fc.showOpenDialog(null);
 				if (status == JFileChooser.APPROVE_OPTION) {

diff --git a/src/nsabgone/src/view/DeleteWindow.java b/src/nsabgone/src/view/DeleteWindow.java
@@ -37,9 +37,9 @@ public class DeleteWindow {
 			tmp3 = "Cloud not synchronous!";
 			break;
 		case klickEvent:
-			tmp1 = "Are you sure to delete:";
+			tmp1 = "Are you sure you want to delete:";
 			tmp2 = "from cloud?";
-			tmp3 = "Delete file";
+			tmp3 = "Delete file?";
 			break;
 		default:
 			break;
